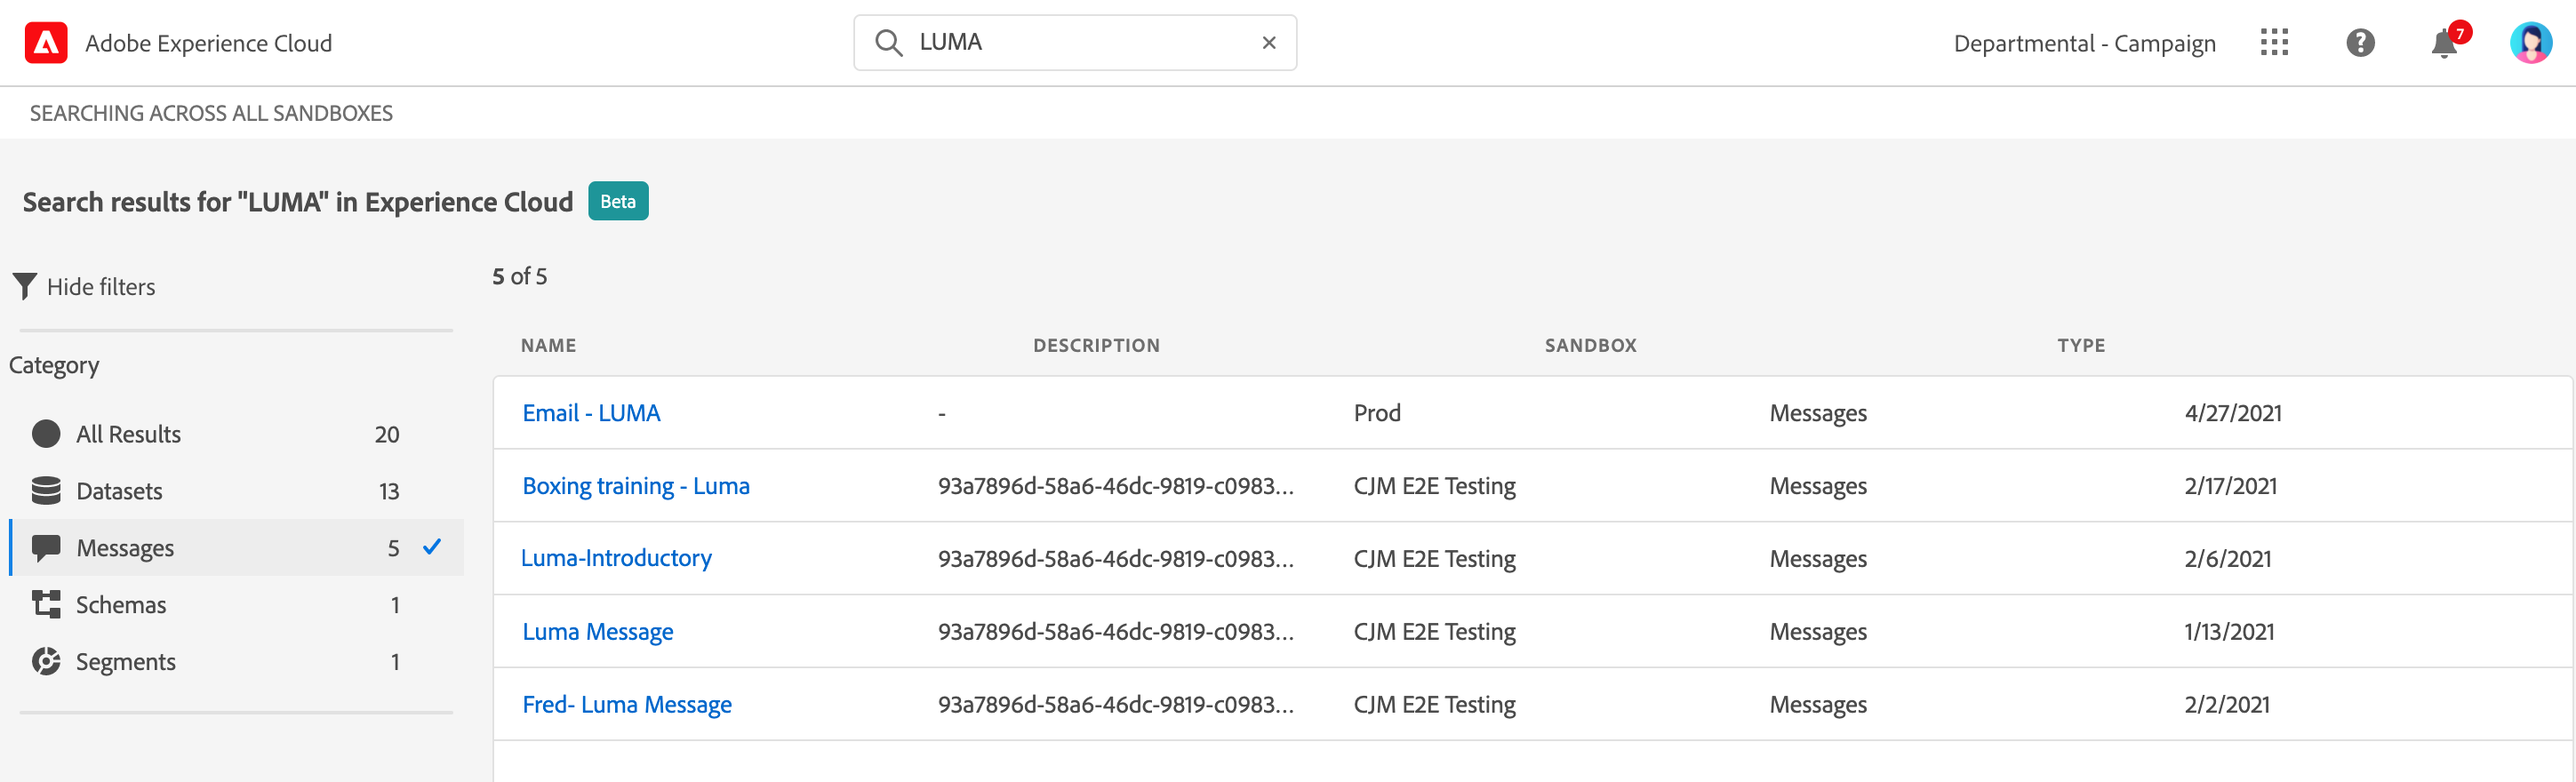
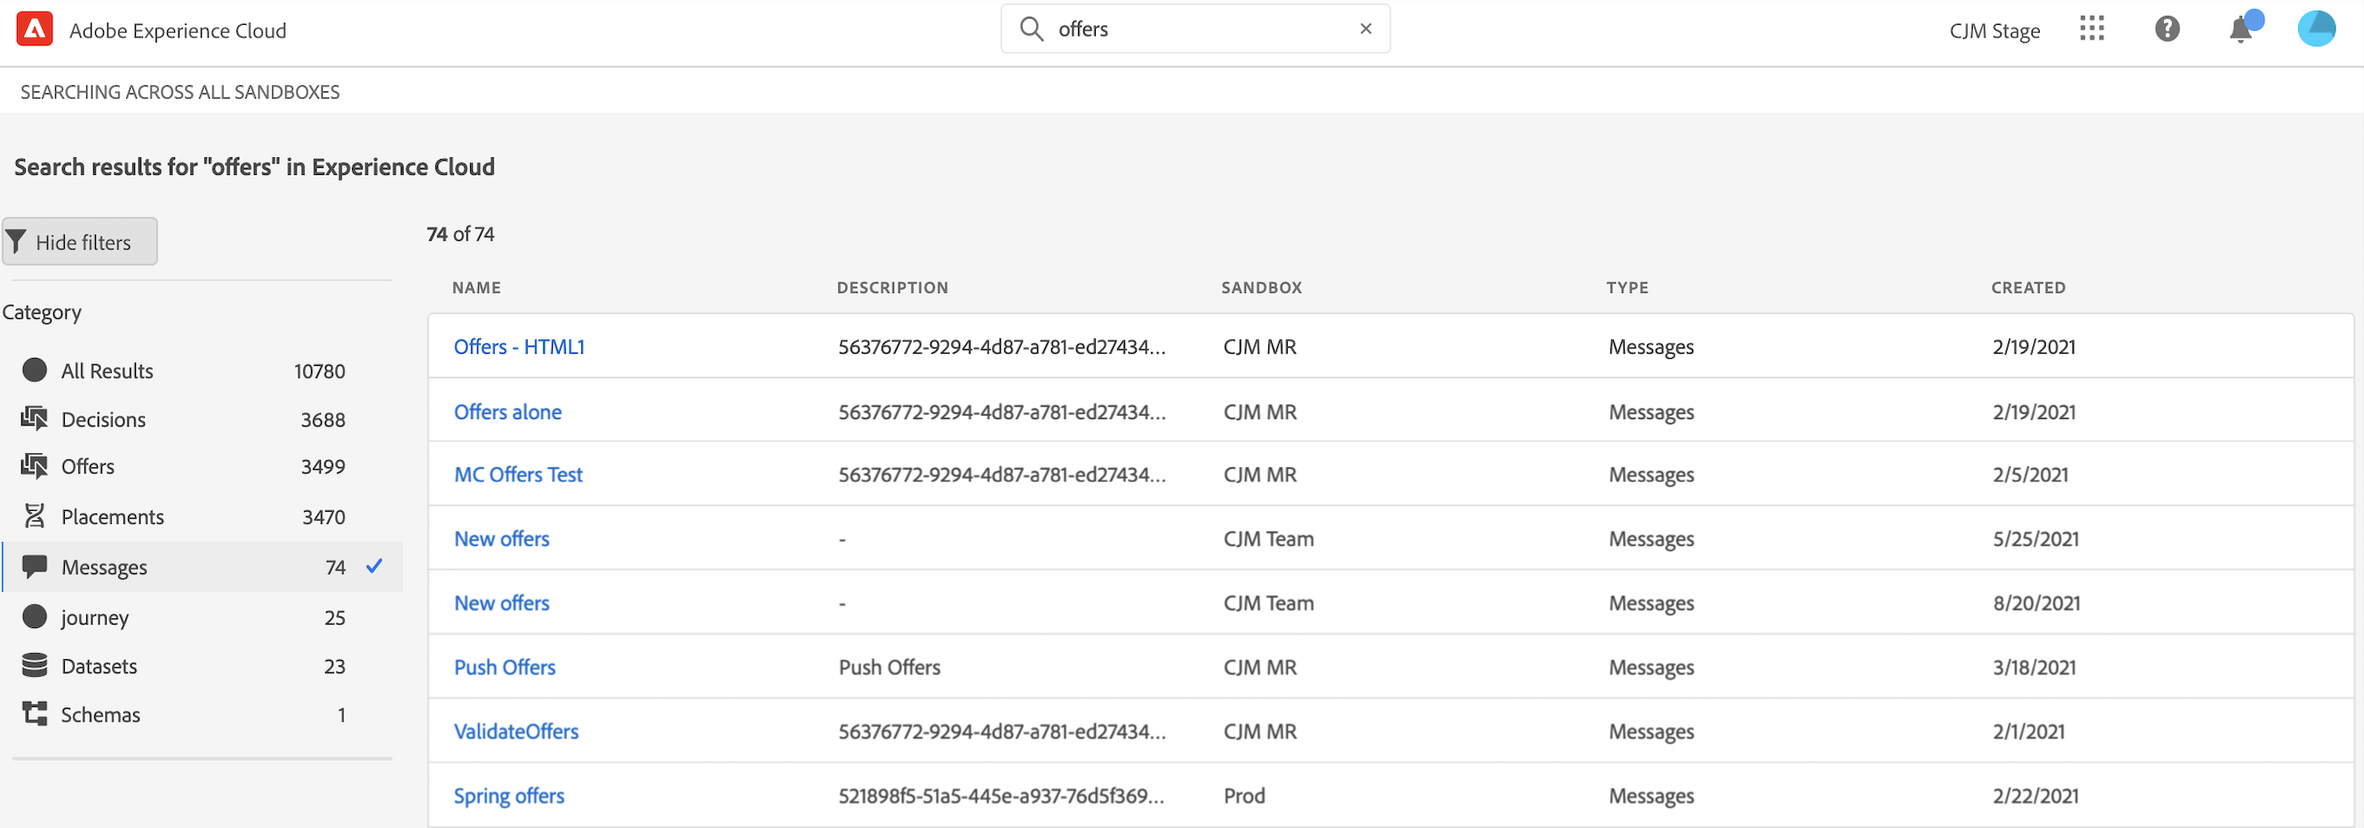
Unified search updates

diff --git a/help/using/user-interface.md b/help/using/user-interface.md
@@ -265,11 +265,13 @@ To change your language:
 
 ## Search{#unified-search}
 
-Anywhere from Adobe Journey Optimizer interface, use the Unified Adobe Experience Cloud search capability on the center of the top bar to find assets, journeys, datasets, messages, and more across your sandboxes. Start entering content to display top results. Help articles about the entered keywords also show up in the results.
+Anywhere from Adobe Journey Optimizer interface, use the Unified Adobe Experience Cloud search capability on the center of the top bar to find assets, journeys, datasets, messages, and more across your sandboxes. 
+
+Start entering content to display top results. Help articles about the entered keywords also show up in the results.
 
 ![](assets/unified-search.png)
 
-Press **Enter** to access all results and filter.
+Press **Enter** to access all results and filter by business object.
 
 ![](assets/search-and-filter.png)
 
